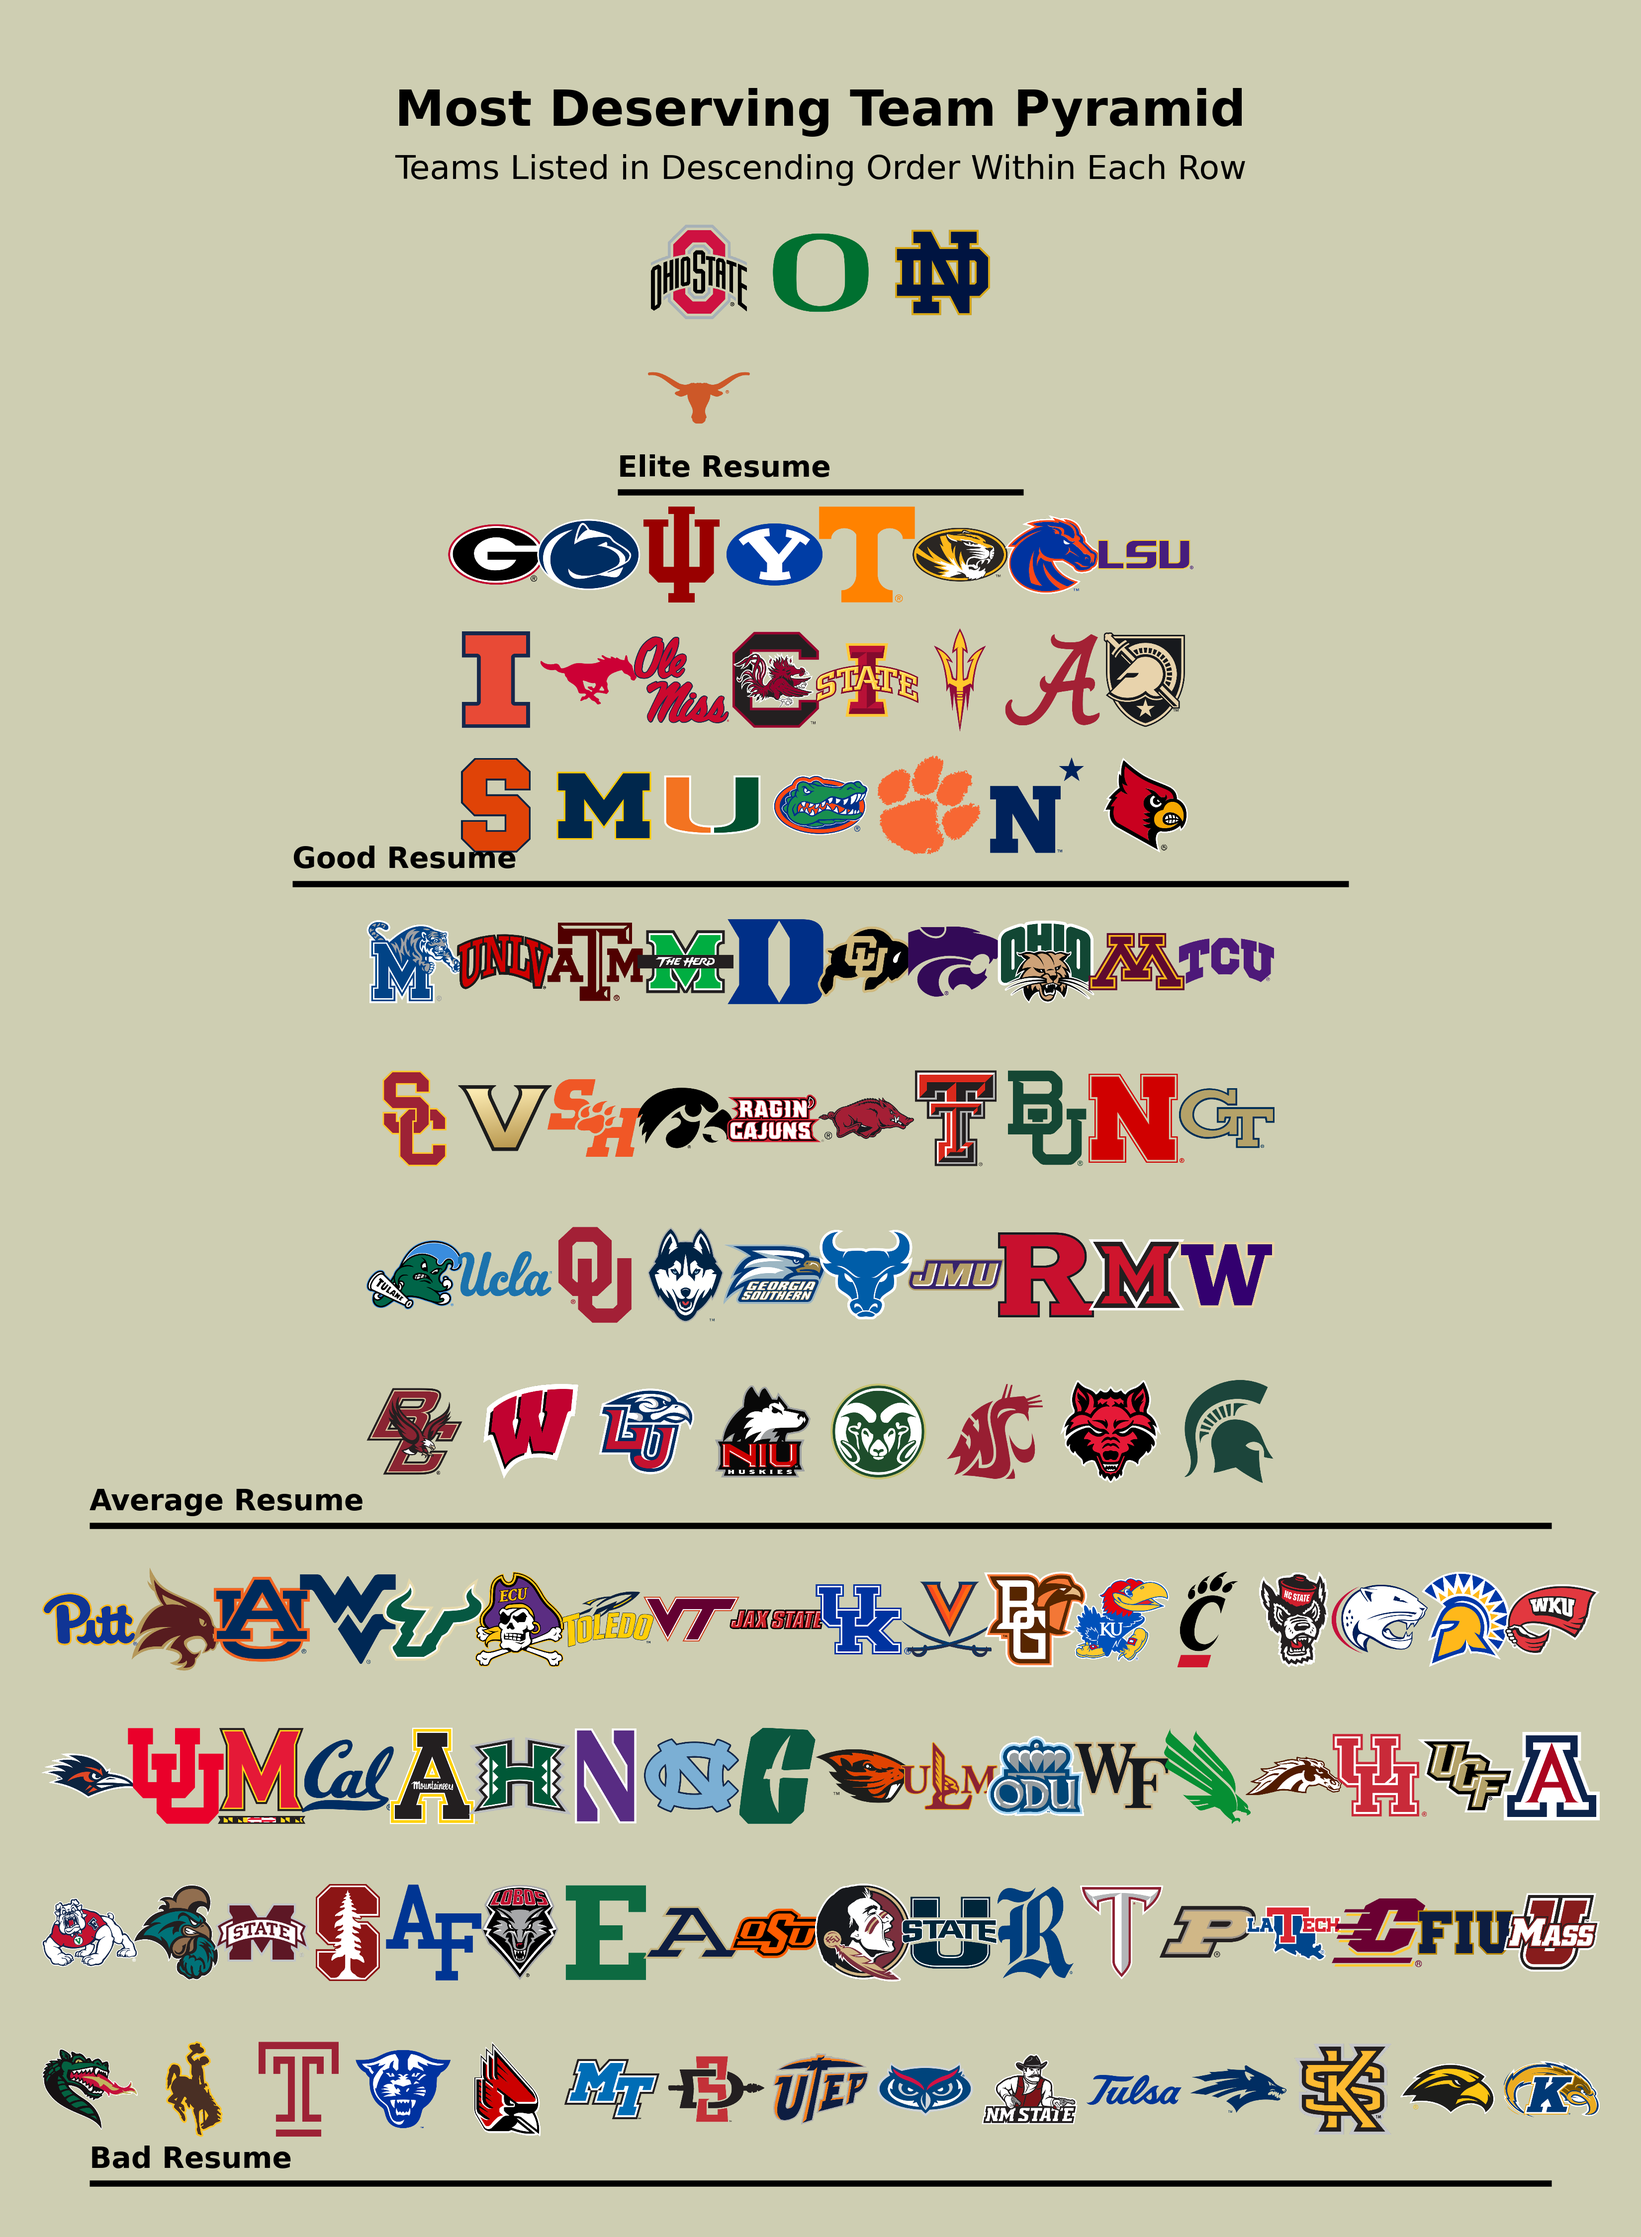
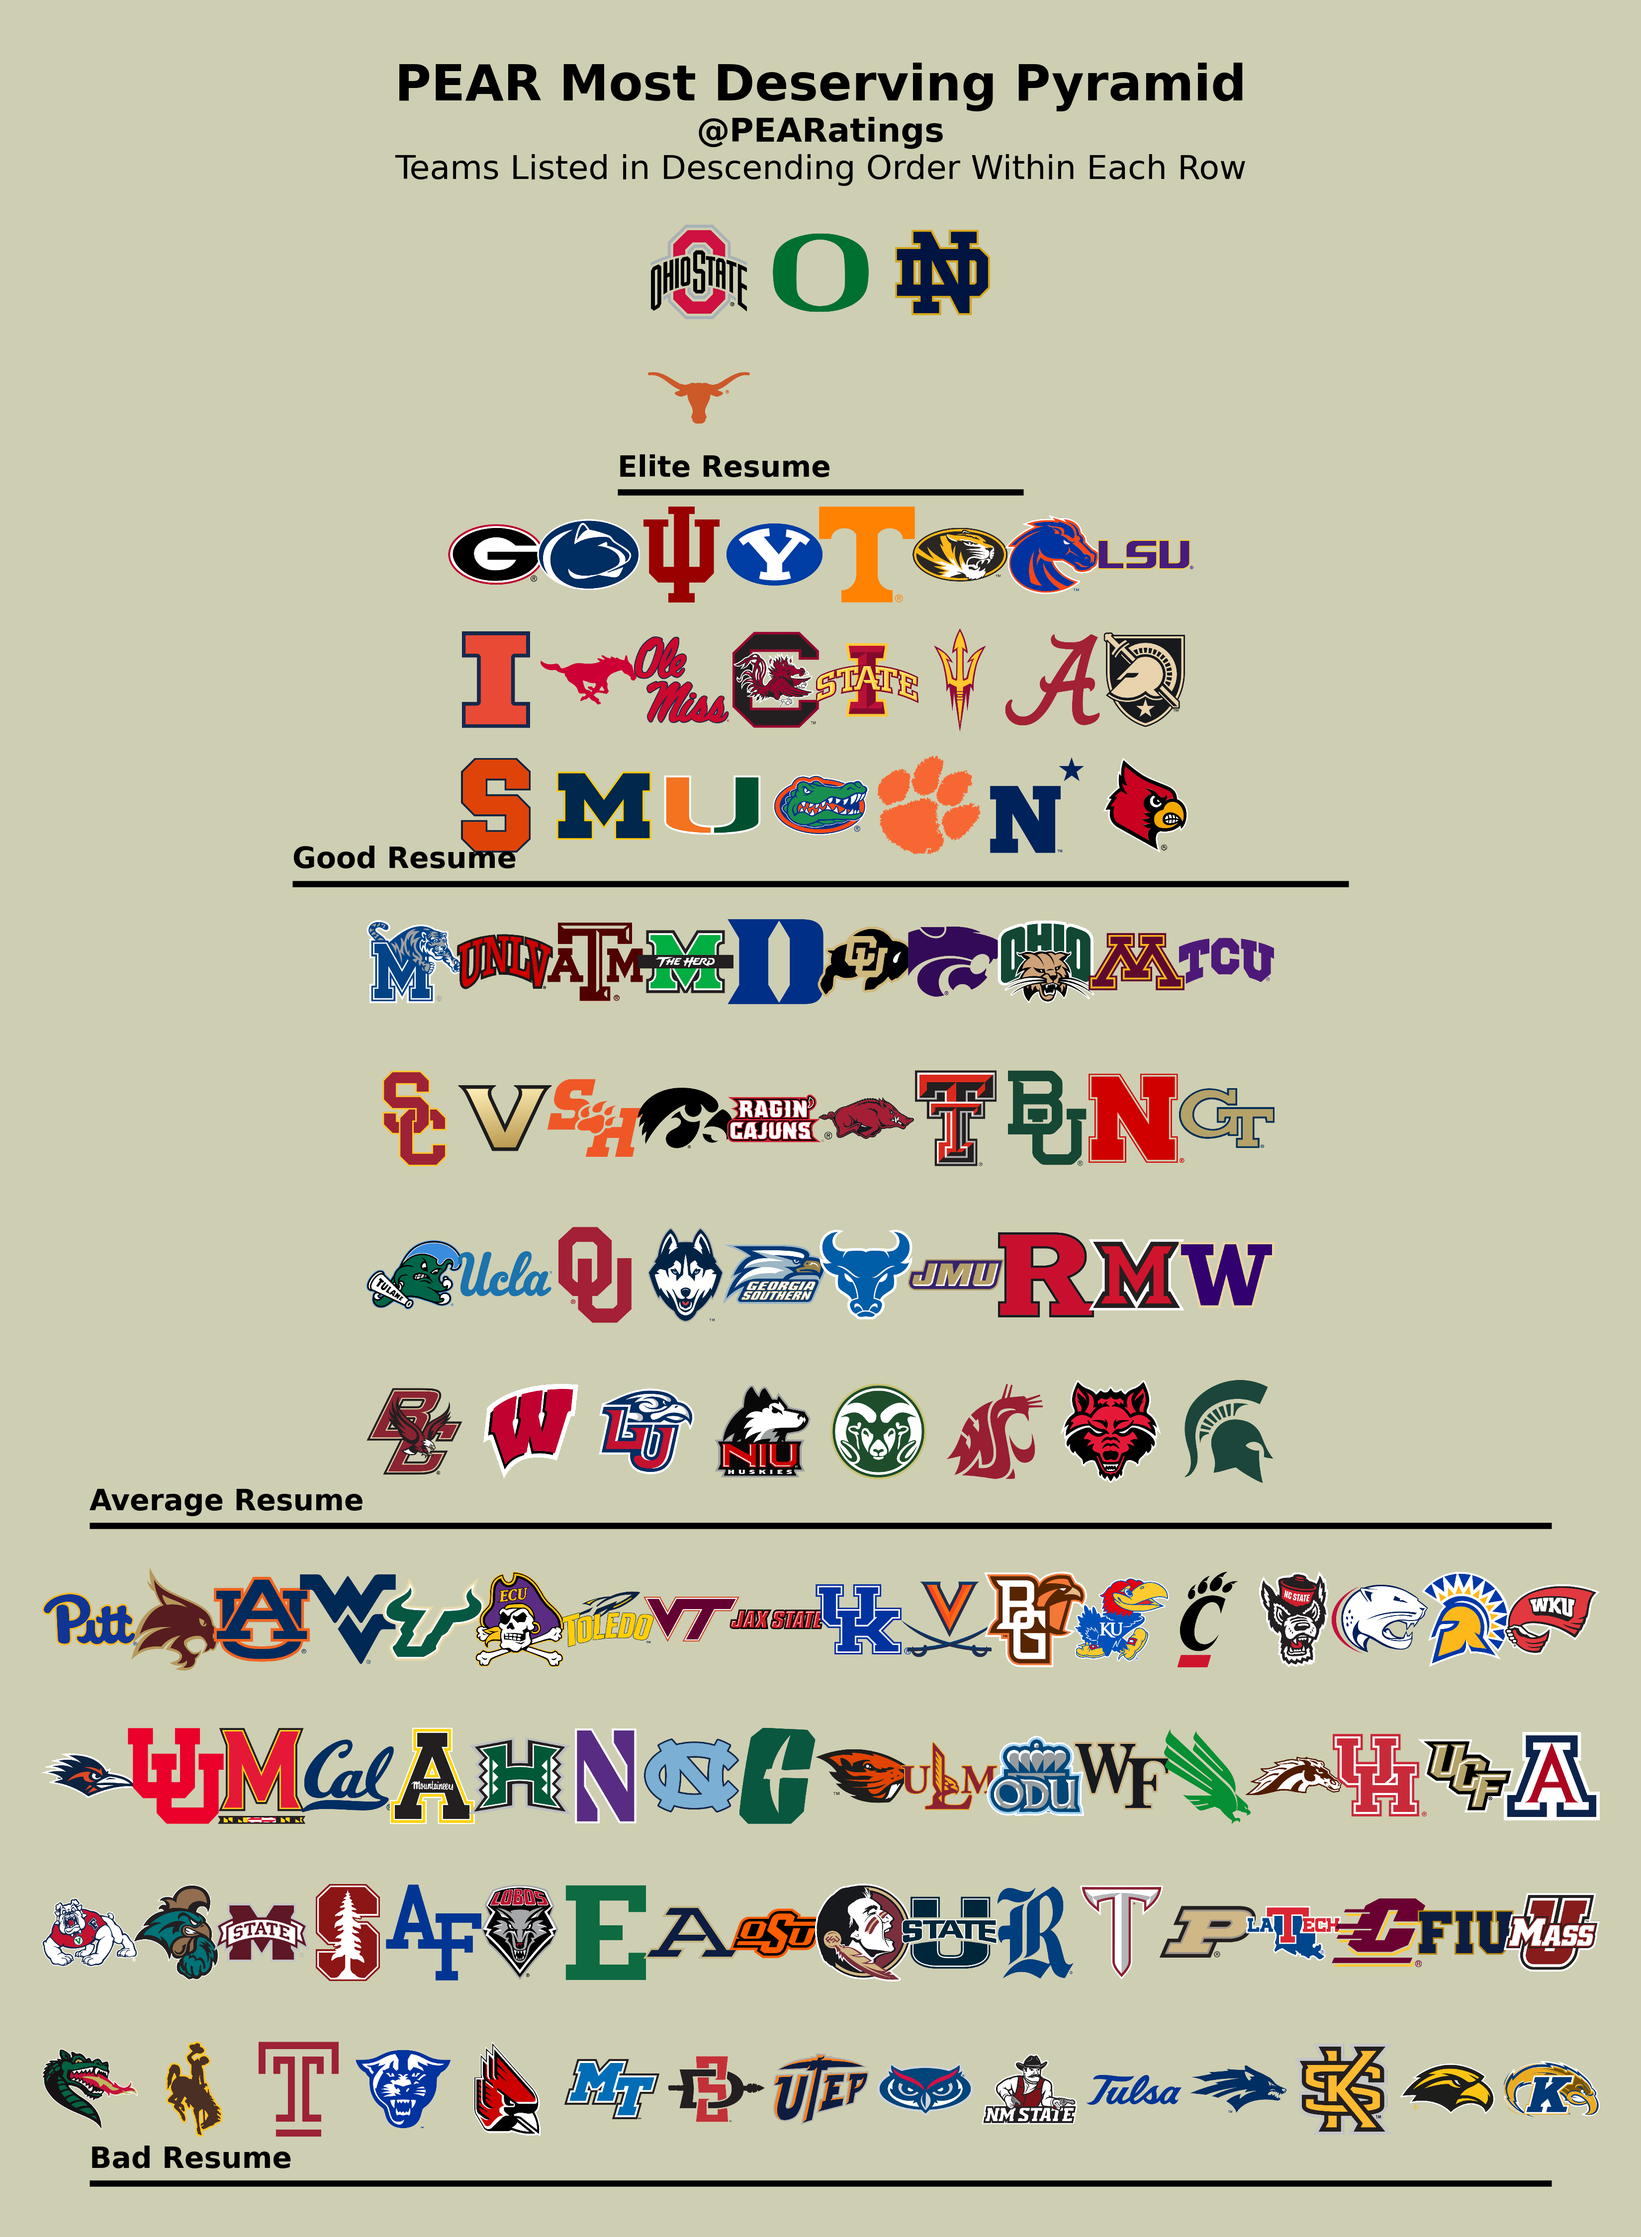
adding branding to these too

Changed region(s): [[0.2185, 0.0311, 0.7803, 0.0622]]

diff --git a/visual_content.py b/visual_content.py
@@ -3140,8 +3140,9 @@ try:
     ax.set_ylim(-5.5, 1)  # Extend y-axis to fit all levels
     ax.set_yticks([-0.75, -2.25, -4, -6])
     ax.set_yticklabels(["Elite Teams", "Good Teams", "Average Teams", "Below Average Teams"])
-    ax.text(0, 0.67, "Power Ratings Team Pyramid", ha='center', fontsize=24, fontweight='bold')
-    ax.text(0, 0.5, "Teams Listed in Descending Order Within Each Row", fontsize = 16, ha='center')
+    ax.text(0, 0.75, "PEAR Power Ratings Pyramid", ha='center', fontsize=24, fontweight='bold')
+    ax.text(0, 0.62, "@PEARatings", fontsize=16, ha='center', fontweight='bold')
+    ax.text(0, 0.50, "Teams Listed in Descending Order Within Each Row", fontsize = 16, ha='center')
     ax.axis("off")  # Remove axis lines
     plt.tight_layout()
     file_path = os.path.join(folder_path, "power_rating_team_pyramid")
@@ -3206,8 +3207,9 @@ try:
     ax.set_ylim(-5.5, 1)  # Extend y-axis to fit all levels
     ax.set_yticks([-0.75, -2.25, -4, -6])
     ax.set_yticklabels(["Elite Teams", "Good Teams", "Average Teams", "Below Average Teams"])
-    ax.text(0, 0.67, "Most Deserving Team Pyramid", ha='center', fontsize=24, fontweight='bold')
-    ax.text(0, 0.5, "Teams Listed in Descending Order Within Each Row", fontsize = 16, ha='center')
+    ax.text(0, 0.75, "PEAR Most Deserving Pyramid", ha='center', fontsize=24, fontweight='bold')
+    ax.text(0, 0.62, "@PEARatings", fontsize=16, ha='center', fontweight='bold')
+    ax.text(0, 0.50, "Teams Listed in Descending Order Within Each Row", fontsize = 16, ha='center')
     ax.axis("off")  # Remove axis lines
     plt.tight_layout()
     file_path = os.path.join(folder_path, "most_deserving_team_pyramid")
